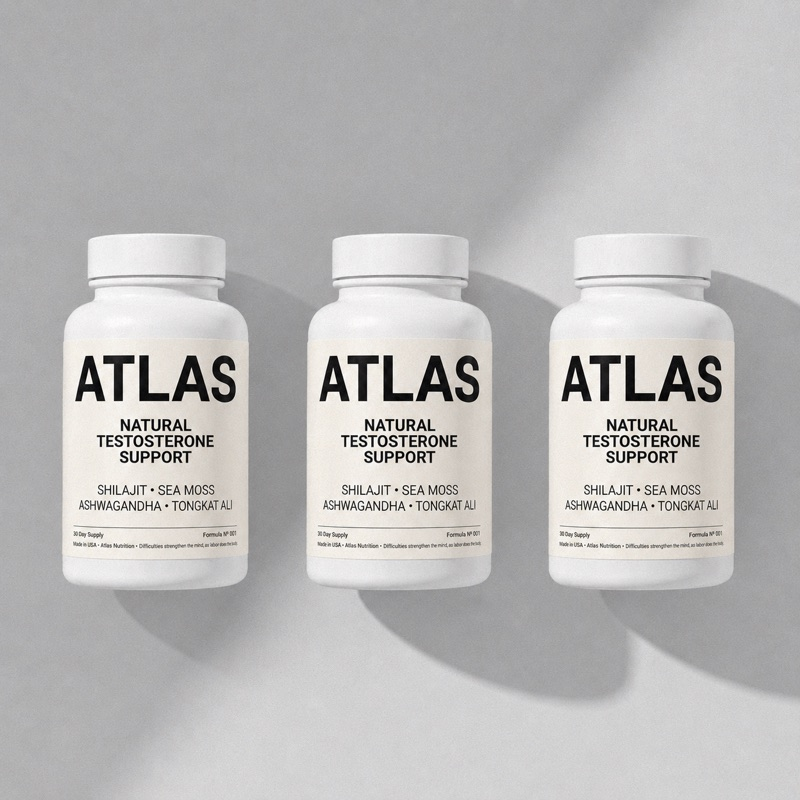
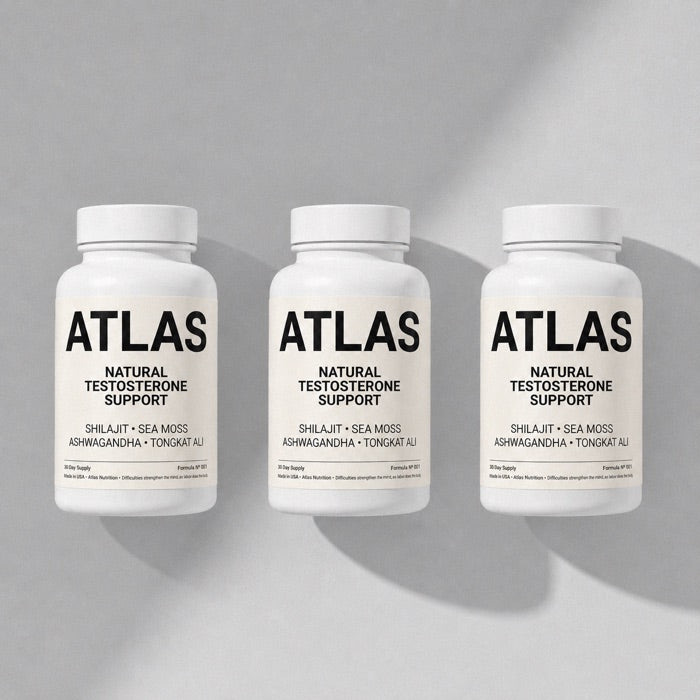
Offer: mirror the live PDP - full buy box, real reviews/rating, timeline, real images
- Full subscribe & save buy box ported from live theme: 3-card quantity selector + subscribe/one-time toggle, real prices (1: $48/$60, 3: $96/$120, 6: $144/$180) + selling-plan IDs, CTA wires selling_plan into the cart link
- Real product shots (atlas-bottle-hero / 3pack / 6pack) replacing the zoomed crop
- Real rating (4.8/5, 25 reviews) + 5 verified reviews pulled from the PDP
- 'What to expect' week-by-week timeline (real PDP copy) replaces the plan bullets
- Replaced the mid-quiz results SVG with the generated uptrend chart

diff --git a/index.html b/index.html
@@ -205,6 +205,33 @@
   .qprice .pwas{color:var(--ink-faint);font-size:14px;text-decoration:line-through}
   .qprice .psave{margin-left:auto;font-weight:700;font-size:11px;letter-spacing:.03em;text-transform:uppercase;color:var(--green);background:#eaf3ee;border:1px solid #d3e6da;border-radius:999px;padding:5px 11px}
   .foot{font-size:10.5px;color:var(--ink-faint);line-height:1.5;margin-top:24px;text-align:center}
+  .arate{text-align:center;margin:6px 0 0}
+  .arate .st{color:#c8a24a;letter-spacing:3px;font-size:15px}
+  .arate .e{display:block;font-size:11px;letter-spacing:.1em;text-transform:uppercase;color:var(--ink-faint);margin-top:6px}
+  .revc{background:var(--paper);border:1px solid var(--line);border-radius:13px;padding:15px 16px;margin-bottom:10px}
+  .revc .rst{color:#c8a24a;font-size:13px;letter-spacing:1px}
+  .revc p{font-size:13.5px;line-height:1.5;color:var(--ink-soft);margin:8px 0 8px}
+  .revc .who{font-size:10.5px;letter-spacing:.05em;text-transform:uppercase;color:var(--ink-faint)}
+  .tl{position:relative;padding-left:34px;margin-top:6px}
+  .tl:before{content:"";position:absolute;left:9px;top:10px;bottom:10px;width:2px;background:var(--line)}
+  .tlc{position:relative;background:var(--paper);border:1px solid var(--line);border-radius:13px;padding:14px 16px;margin-bottom:12px}
+  .tlc .node{position:absolute;left:-34px;top:15px;width:22px;height:22px;border-radius:50%;background:var(--cream);border:1.5px solid var(--green);color:var(--green);display:flex;align-items:center;justify-content:center;font-size:11px}
+  .tlc .t{font-weight:800;font-size:12.5px;letter-spacing:.05em;text-transform:uppercase;margin-bottom:7px}
+  .tlc p{font-size:13.5px;line-height:1.55;color:var(--ink-soft);margin:0 0 6px}
+  .tlc p:last-child{margin-bottom:0}
+  .tlc b{font-weight:700;color:var(--ink)}
+  .qfreq{background:var(--paper);border:1.5px solid var(--line);border-radius:12px;padding:13px;margin-bottom:9px;cursor:pointer}
+  .qfreq.sel{border-color:var(--green);background:#f3f8f4;box-shadow:0 0 0 3px rgba(10,54,34,.10)}
+  .qfreq-top{display:flex;align-items:center;gap:9px}
+  .qrad{width:16px;height:16px;border-radius:50%;border:1.5px solid var(--ink-faint);background:#fff;flex:0 0 auto}
+  .qfreq.sel .qrad{background:var(--green);border-color:var(--green);box-shadow:inset 0 0 0 3px #fff}
+  .qfname{font-weight:700;font-size:14px}
+  .qfprice{margin-left:auto;font-weight:700;font-size:15px}
+  .qfprice s{color:var(--ink-faint);font-size:12px;font-weight:400;margin-left:5px}
+  .qcad{font-size:11px;color:var(--ink-faint);margin:6px 0 0 25px}
+  .qticks{display:grid;grid-template-columns:1fr 1fr;gap:6px 12px;margin:11px 0 0 25px;font-size:11.5px;color:var(--ink-soft)}
+  .qticks i{color:var(--green);font-style:normal;font-weight:700}
+  .qprice s.pwas{text-decoration:line-through}
 </style>
 <!-- Meta Pixel · Atlas -->
 <script>
@@ -373,7 +400,7 @@ function build(sc){
     }
     case 'email': return `<h1>Where should we send your Vitality Score and plan?</h1><p class="sub">Your answers are private. We’ll build your plan on the next screen.</p><div class="field"><input class="inp" id="em" type="email" placeholder="[email redacted]"></div><button class="btn" id="cont">Build my plan</button><button class="btn alt" id="skip" style="margin-top:10px">Skip, just show my plan</button><div class="micro">No spam. Unsubscribe anytime.</div>`;
     case 'results': return `<div class="eyebrow">Plan ready</div><h1>Your 90-day plan to get your edge back is ready.</h1>
-      <svg class="graph" viewBox="0 0 300 120" preserveAspectRatio="none"><polyline fill="none" stroke="#0a3622" stroke-width="4" stroke-linecap="round" points="6,104 150,86 300,18"/><text x="6" y="118" fill="#8d887c" font-size="11">Today</text><text x="252" y="118" fill="#8d887c" font-size="11">Week 12</text></svg>
+      <img class="graph" src="img/uptrend.jpg" alt="Your 90-day trajectory" style="border-radius:12px;border:1px solid var(--line)">
       <button class="btn" id="cont">See my plan</button>`;
     case 'offer': {
       const s=signsCount(), v=vitality();
@@ -384,6 +411,7 @@ function build(sc){
         <div class="meter"><div class="marker" style="left:${v}%"></div></div>
         <div class="mscale"><span>Depleted</span><span>Optimal</span></div>
         <p style="text-align:center;margin:14px 0 0;font-size:15px">You’re showing <b>${s} of the 10 signs</b> of testosterone decline.</p>
+        <div class="arate"><span class="st">★★★★★</span><span class="e">Excellent · 4.8 out of 5 · 25 reviews</span></div>
 
         <h3 class="sech">Where you could be in 90 days</h3>
         <div class="cmp">
@@ -423,34 +451,37 @@ function build(sc){
           <div class="tot"><span>Active botanical extracts</span><span>700mg</span></div>
         </div>
 
-        <h3 class="sech">Your 90-day plan</h3>
-        <ul class="bullets">
-          <li>One Atlas capsule a day, the engine that puts back what your body’s run short on</li>
-          <li>A simple daily routine to amplify it: sleep, light training, food</li>
-          <li>Week-by-week expectations, so you know what should shift and when</li>
-          <li>The Rebuild Blueprint, the full step-by-step, free with your plan</li>
-        </ul>
+        <h3 class="sech">What to expect</h3>
+        <p class="sesub">Most men feel the first shift within days. The full rebuild takes 90.</p>
+        <div class="tl">
+          <div class="tlc"><span class="node">✓</span><div class="t">Week 1</div><p><b>What you’ll feel:</b> The 2pm slump eases and your energy holds through the day. For a lot of men, morning wood starts showing up again in the first week or two.</p><p><b>What it does:</b> Shilajit’s fulvic minerals start restocking what a modern diet strips out, the raw material your energy runs on.</p></div>
+          <div class="tlc"><span class="node">✓</span><div class="t">Month 1</div><p><b>What you’ll feel:</b> Focus sharpens and the drive starts coming back, you want to train, push at work, chase things again instead of just getting through the day.</p><p><b>What it does:</b> Tongkat ali and sea moss support drive, motivation and the trace minerals your hormone system runs on.</p></div>
+          <div class="tlc"><span class="node">✓</span><div class="t">Month 2</div><p><b>What you’ll feel:</b> Sleep gets deeper, recovery quicker, and your fuse gets longer. The small stuff stops landing, and you catch yourself speaking up more, a bit surer of your call.</p><p><b>What it does:</b> Ashwagandha lowers cortisol, the stress hormone that works against testosterone, so you recover and sleep deeper.</p></div>
+          <div class="tlc"><span class="node">✓</span><div class="t">Month 3</div><p><b>What you’ll feel:</b> Drive and libido back at a level you’d half forgotten. You stand a little taller, hold the room a little easier, starting to feel like yourself again.</p><p><b>What it does:</b> Three months of full, disclosed doses compounding daily, supporting your body’s own testosterone production.</p></div>
+        </div>
         <img class="graph" src="img/uptrend.jpg" alt="Your 90-day trajectory" style="border-radius:12px;border:1px solid var(--line)">
 
-        <h3 class="sech">What men report</h3>
-        <div class="stats">
-          <div class="s"><div class="v">84%</div><div class="k">Steadier energy</div></div>
-          <div class="s"><div class="v">79%</div><div class="k">Stronger drive &amp; libido</div></div>
-          <div class="s"><div class="v">76%</div><div class="k">More drive to train</div></div>
-        </div>
-        <div class="statnote">Based on an Atlas customer survey.</div>
-        <div class="ph">[ real verified reviews / star rating to be wired in before launch ]</div>
+        <h3 class="sech">Men who got it back</h3>
+        <div class="arate" style="margin-bottom:14px"><span class="st">★★★★★</span><span class="e">Excellent · 4.8 out of 5 · 25 reviews</span></div>
+        <div class="revc"><div class="rst">★★★★★</div><p>"I’d quietly become a smaller version of myself. About a month in, the fog lifted enough that my wife asked if I’d had good news at work. She noticed before I did."</p><div class="who">Mark T. · Verified</div></div>
+        <div class="revc"><div class="rst">★★★★★</div><p>"The mornings had basically stopped these last few years, I’d put it down to my age. Five weeks in and things are firmly back to normal in that department. The Mrs has definitely noticed."</p><div class="who">Paul R. · Verified</div></div>
+        <div class="revc"><div class="rst">★★★★★</div><p>"Bought these for my husband, home, ate, asleep on the sofa by 8. Second jar in and he’s up doing things at the weekend, we actually talk in the evenings, and he laughs more. Worth every penny."</p><div class="who">Sarah M. · Verified</div></div>
+        <div class="revc"><div class="rst">★★★★★</div><p>"First two weeks I felt nothing and nearly sent them back, then around week three I realised how much better I’d been waking up and smashing my work. It creeps up on you, so stick with it."</p><div class="who">James P. · Verified</div></div>
+        <div class="revc"><div class="rst">★★★★★</div><p>"Work nights, and the afternoon shift used to finish me. Three weeks in and the difference is noticeable. More energy, and not crashing of an afternoon."</p><div class="who">Darren K. · Verified</div></div>
 
         <h3 class="sech">Choose your plan</h3>
         <div class="qsel-h">Select quantity</div>
         <div class="qcards">
-          <div class="qcard" data-vid="53757279437143" data-price="49" data-was="" data-save=""><img src="img/bottle-1.jpg" alt="1 bottle of Atlas"><div class="qn">1 Bottle</div><div class="qs">1-month supply</div></div>
-          <div class="qcard sel" data-vid="53757279469911" data-price="98" data-was="147" data-save="49"><div class="qbadge">Most popular</div><img src="img/bottle-3.jpg" alt="3 bottles of Atlas"><div class="qn">3 Bottles</div><div class="qs">3-month supply</div><div class="qd">Buy 2, get 1 free</div></div>
-          <div class="qcard" data-vid="53757279502679" data-price="147" data-was="294" data-save="147"><img src="img/bottle-6.jpg" alt="6 bottles of Atlas"><div class="qn">6 Bottles</div><div class="qs">6-month supply</div><div class="qd">Buy 3, get 3 free</div></div>
+          <div class="qcard" data-vid="53757279437143" data-bottles="1" data-months="month"><img src="img/bottle-1.jpg" alt="1 bottle of Atlas"><div class="qn">1 Bottle</div><div class="qs">1-month supply</div></div>
+          <div class="qcard sel" data-vid="53757279469911" data-bottles="3" data-months="3 months"><div class="qbadge">Most popular</div><img src="img/bottle-3.jpg" alt="3 bottles of Atlas"><div class="qn">3 Bottles</div><div class="qs">3-month supply</div><div class="qd">Buy 2, get 1 free</div></div>
+          <div class="qcard" data-vid="53757279502679" data-bottles="6" data-months="6 months"><img src="img/bottle-6.jpg" alt="6 bottles of Atlas"><div class="qn">6 Bottles</div><div class="qs">6-month supply</div><div class="qd">Buy 3, get 3 free</div></div>
         </div>
-        <div class="qprice"><span class="pnow" id="qp-now">$98</span><span class="pwas" id="qp-was">$147</span><span class="psave" id="qp-save">Save $49</span></div>
-        <button class="btn" id="qp-cta">Start my plan →</button>
-        <div class="gtee">90 days to feel it, or every penny back · free US shipping on 3+</div>
+        <div class="qprice"><span class="pnow" id="qp-now">$96.00</span><s class="pwas" id="qp-was">$144.00</s></div>
+        <div class="qsel-h" style="margin-top:18px">Select frequency</div>
+        <div class="qfreq sel" id="freq-sub"><div class="qfreq-top"><span class="qrad"></span><span class="qfname">Subscribe &amp; save</span><span class="qfprice"><span id="freq-sub-price"></span> <s id="freq-sub-was"></s></span></div><div class="qcad" id="freq-sub-cad"></div><div class="qticks"><span><i>✓</i> 20% off every order</span><span><i>✓</i> Free US shipping</span><span><i>✓</i> Skip, pause or cancel anytime</span><span><i>✓</i> Never run out</span></div></div>
+        <div class="qfreq" id="freq-once"><div class="qfreq-top"><span class="qrad"></span><span class="qfname">One-time purchase</span><span class="qfprice"><span id="freq-once-price"></span> <s id="freq-once-was"></s></span></div></div>
+        <button class="btn" id="qp-cta">Add to cart · <span id="aq-cta-price"></span></button>
+        <div class="gtee">90-day money-back guarantee · free US shipping on 3+</div>
         <div class="pay">Visa · Mastercard · Amex · PayPal</div>
         <div class="nopill"><span>No needles</span><span>No prescription</span><span>No TRT</span></div>
 
@@ -495,13 +526,29 @@ function after(sc){
   if(sc.type==='results') track('ViewContent',{content_name:'quiz_results'});
   if(sc.type==='email'){ cont(()=>{ S.a.email=screen.querySelector('#em').value; submitLead(S.a.email); go(1); }); const sk=screen.querySelector('#skip'); if(sk) sk.onclick=()=>go(1); }
   if(sc.type==='offer'){
-    var cards=screen.querySelectorAll('.qcard');
-    function qpick(c){ cards.forEach(x=>x.classList.remove('sel')); c.classList.add('sel'); S.tier=c.dataset.vid;
-      screen.querySelector('#qp-now').textContent='$'+c.dataset.price;
-      var w=screen.querySelector('#qp-was'); if(c.dataset.was){ w.textContent='$'+c.dataset.was; w.style.display=''; } else { w.style.display='none'; }
-      var sv=screen.querySelector('#qp-save'); if(c.dataset.save){ sv.textContent='Save $'+c.dataset.save; sv.style.display=''; } else { sv.style.display='none'; } }
-    cards.forEach(c=>c.onclick=()=>qpick(c));
-    var cta=screen.querySelector('#qp-cta'); if(cta){ cta.onclick=()=>{ track('InitiateCheckout'); location.href='https://tryatlasnutrition.com/cart/'+S.tier+':1'; }; }
+    var PRICE={'1':{sub:48,ot:60,plan:'691915522391'},'3':{sub:96,ot:120,wasSub:144,wasOt:180,plan:'691915555159'},'6':{sub:144,ot:180,wasSub:288,wasOt:360,plan:'691915587927'}};
+    var subOn=true;
+    function f(n){ return '$'+n.toFixed(2); }
+    function st(id,t){ var e=screen.querySelector('#'+id); if(e) e.textContent=t; }
+    function sw(id,n){ var e=screen.querySelector('#'+id); if(e){ if(n){ e.textContent=f(n); e.style.display=''; } else { e.style.display='none'; } } }
+    function rb(){
+      var sel=screen.querySelector('.qcard.sel'); if(!sel) return;
+      var p=PRICE[sel.dataset.bottles]; if(!p) return;
+      var price=subOn?p.sub:p.ot, was=subOn?p.wasSub:p.wasOt;
+      st('qp-now',f(price)); sw('qp-was',was);
+      st('freq-sub-price',f(p.sub)); sw('freq-sub-was',p.wasSub);
+      st('freq-once-price',f(p.ot)); sw('freq-once-was',p.wasOt);
+      st('freq-sub-cad','Ships every '+(sel.dataset.months||'')+', pause anytime');
+      var fsel=screen.querySelector('#freq-sub'), fo=screen.querySelector('#freq-once');
+      if(fsel) fsel.classList.toggle('sel',subOn); if(fo) fo.classList.toggle('sel',!subOn);
+      st('aq-cta-price',f(price));
+      S.tier=sel.dataset.vid; S.plan=(subOn&&p.plan)?p.plan:'';
+    }
+    screen.querySelectorAll('.qcard').forEach(function(c){ c.onclick=function(){ screen.querySelectorAll('.qcard').forEach(function(x){x.classList.remove('sel');}); c.classList.add('sel'); rb(); }; });
+    var fs=screen.querySelector('#freq-sub'); if(fs) fs.onclick=function(){ subOn=true; rb(); };
+    var fo=screen.querySelector('#freq-once'); if(fo) fo.onclick=function(){ subOn=false; rb(); };
+    var cta=screen.querySelector('#qp-cta'); if(cta) cta.onclick=function(){ track('InitiateCheckout'); var u='https://tryatlasnutrition.com/cart/'+S.tier+':1'; if(S.plan) u+='?selling_plan='+S.plan; location.href=u; };
+    rb();
   }
   if(sc.type==='profile'){ const v=+screen.querySelector('#cont').dataset.v; countUp(screen.querySelector('#sn'),v); setTimeout(()=>screen.querySelector('#mk').style.left=v+'%',350); setTimeout(()=>screen.querySelectorAll('.rbar i').forEach(i=>i.style.width=i.dataset.w+'%'),450); cont(()=>go(1)); }
   if(sc.type==='calc') runCalc();